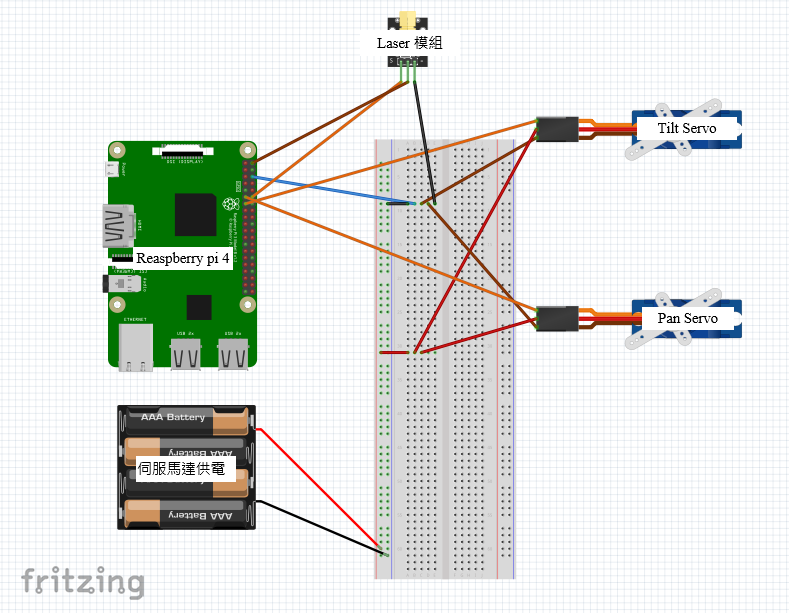
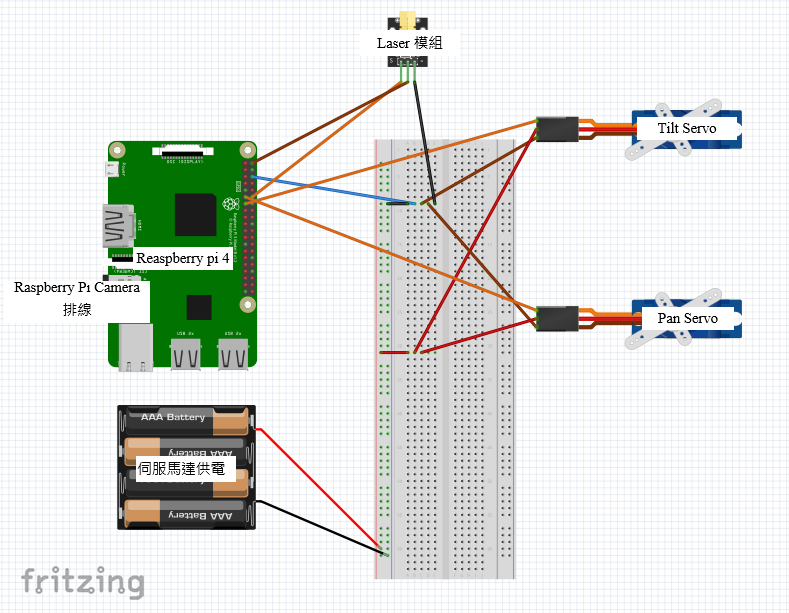
docs: Add hardware setup guide with Fritzing diagram and update README.

Changed region(s): [[0.0304, 0.4339, 0.2129, 0.5269]]

diff --git a/README.md b/README.md
@@ -38,6 +38,7 @@
 | **Pan Servo (下/水平)** | PWM 訊號 | **GPIO 27** | Pin 13 | 負責左右轉動 |
 | **Tilt Servo (上/垂直)** | PWM 訊號 | **GPIO 17** | Pin 11 | 負責上下點頭 |
 | **Laser Module (雷射)** | 開關訊號 | **GPIO 18** | Pin 12 | Active High |
+| **Pi Camera (相機)** | 影像訊號 | **CSI Port** | CSI 介面 | 藍色面朝向網路孔 |
 | **GND (共地)** | 接地 | - | Pin 6 | **必須連接** |
 
 ### ⚠ 重要安全注意事項

diff --git a/docs/hardware.md b/docs/hardware.md
@@ -50,6 +50,10 @@
 > **[📸 待補照片: 相機架設位置示意圖]**
 > *請在此處放一張相機與雷射相對位置的照片*
 
+**⚠ 接線注意：**
+*   Pi Camera 的排線 (Ribbon Cable) **藍色面 (Blue Side)** 必須朝向 Raspberry Pi 的 **網路孔 (Ethernet Port)** 方向插入。
+*   插反會導致無法偵測到相機。
+
 ---
 
 ## 5. 整體連接 (Final Assembly)
